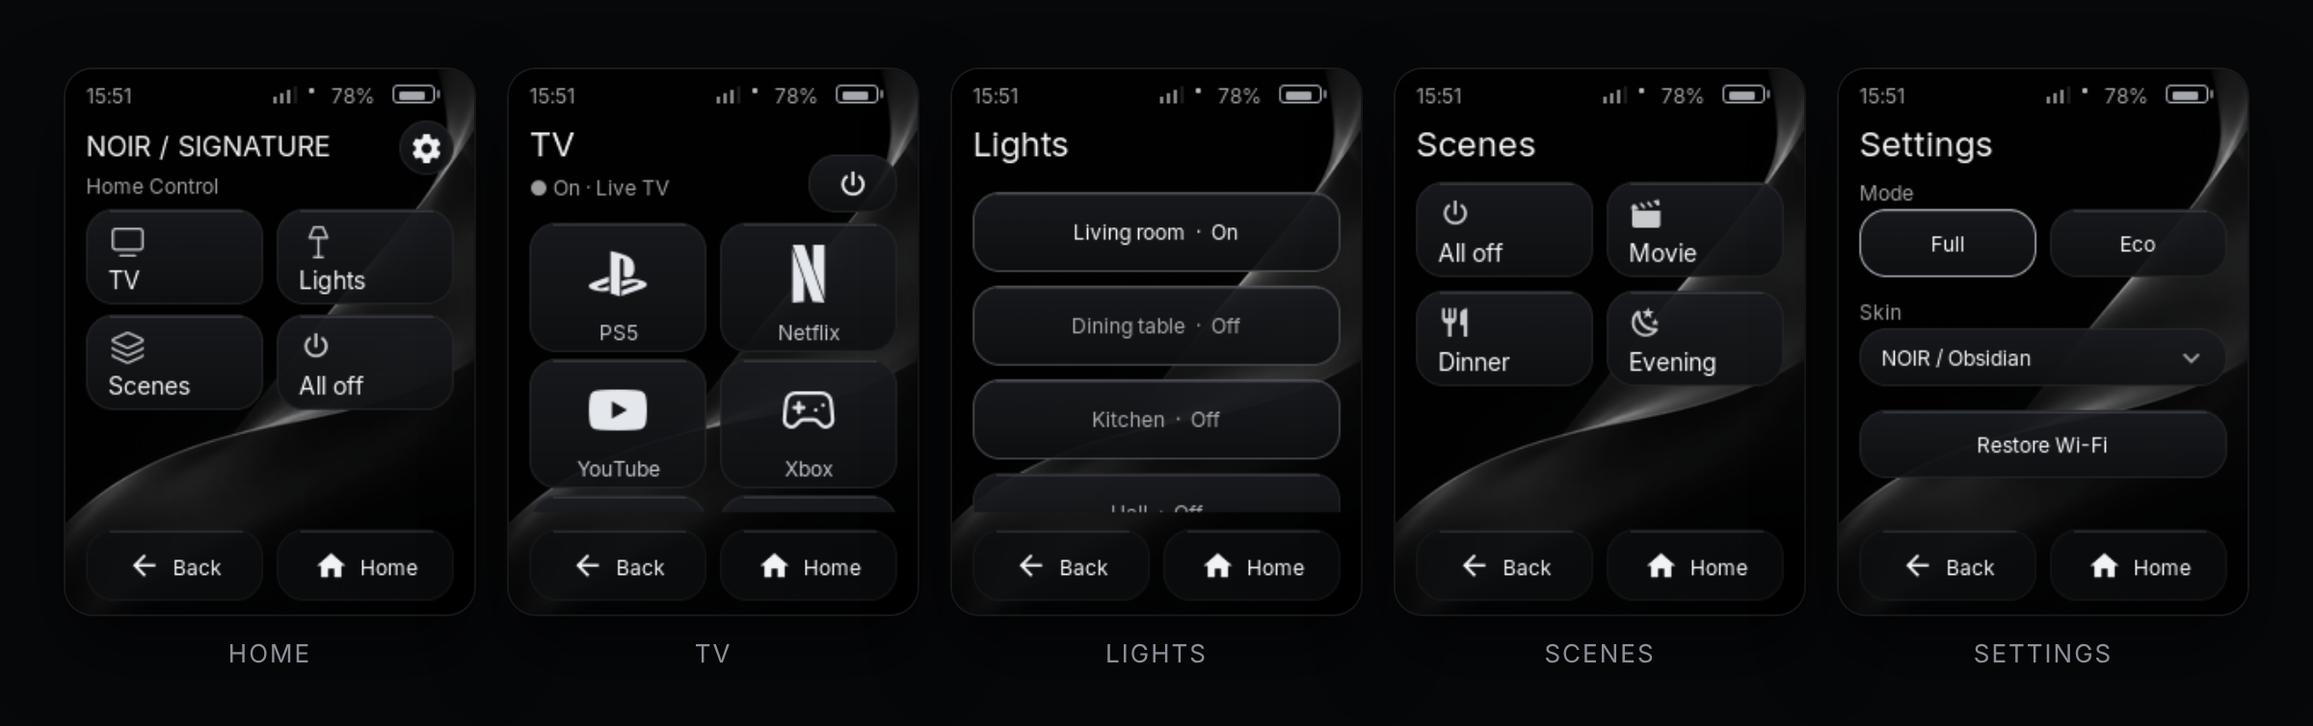
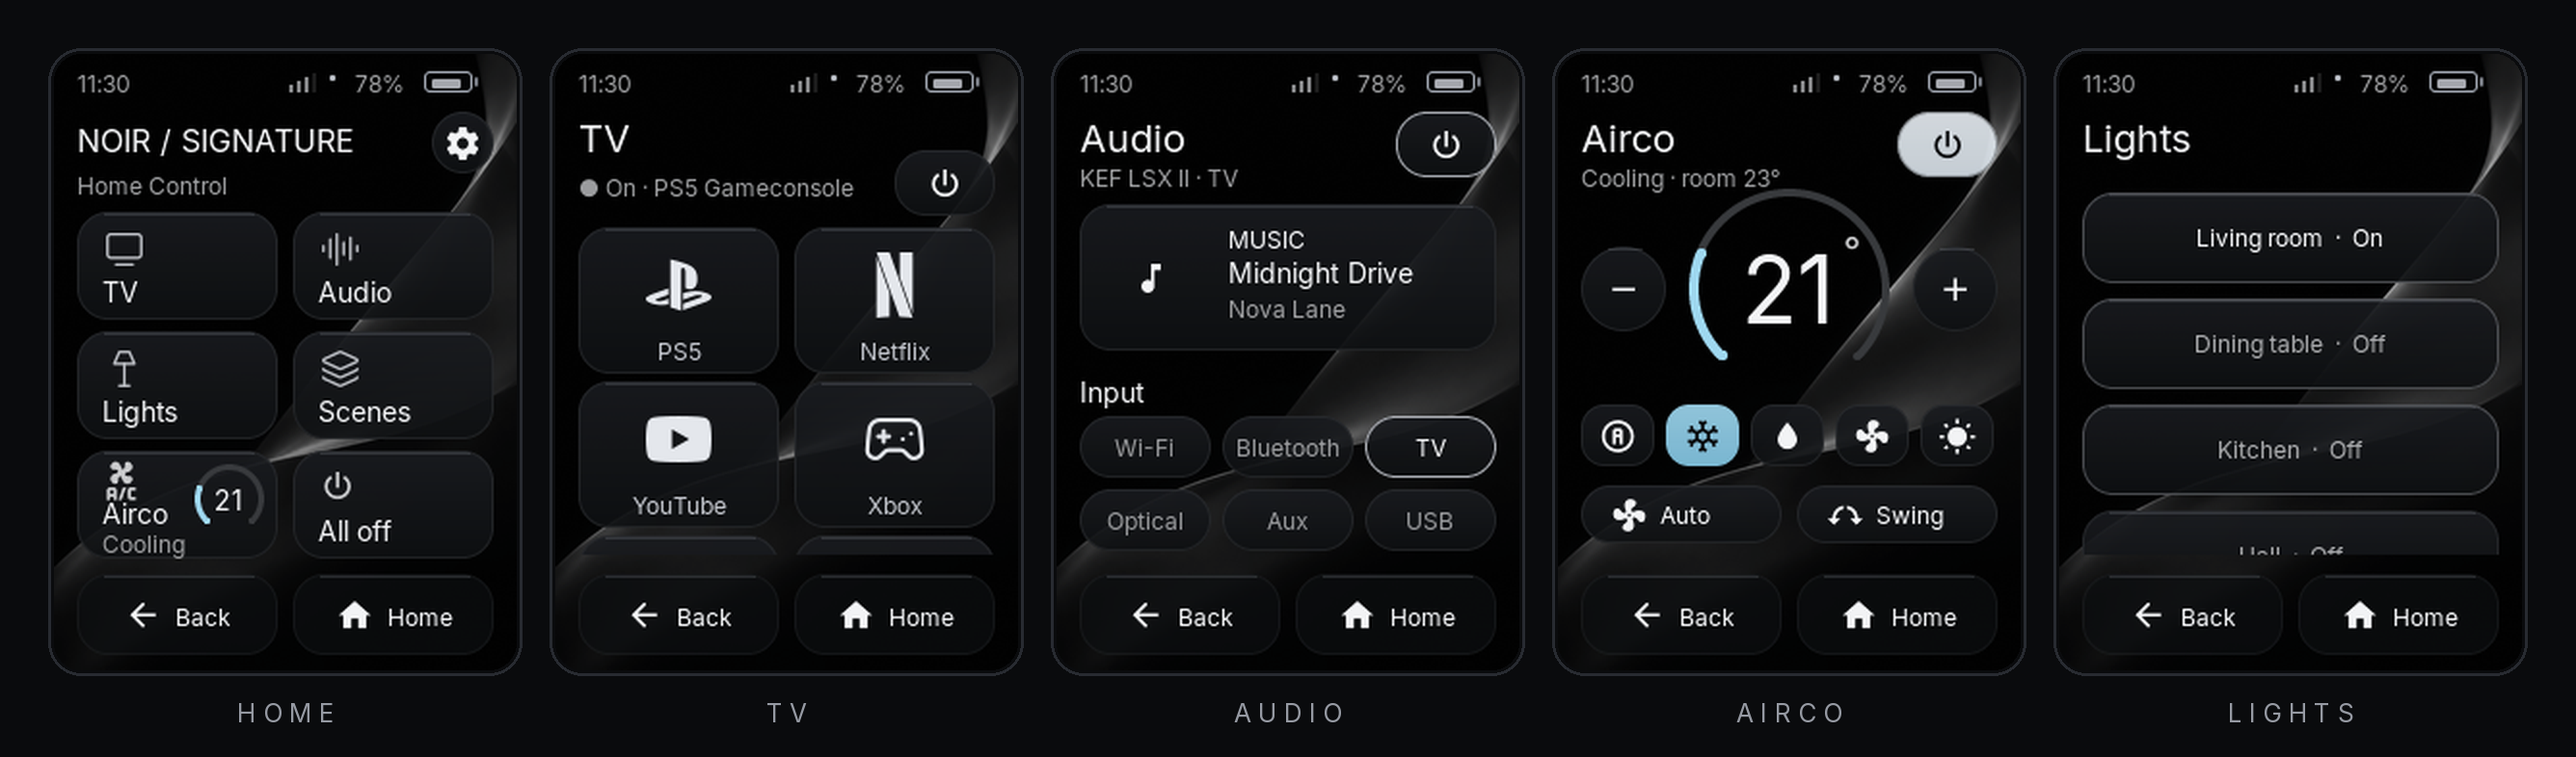
README, roadmap and simulator docs match 0.7.2; new screens image from the simulator
Claude-Session: https://claude.ai/code/session_01LpBzGr38TYbhESUH9aTSqR

diff --git a/firmware/noir-ui.h b/firmware/noir-ui.h
@@ -1207,7 +1207,7 @@ namespace audio {
 static const int BRONNEN = 6;   // at most 6 source buttons on the Audio screen
 // Sources of the speaker: names on the buttons + source values of its media_player (NOIR Builder > Audio).
 // Default: the KEF LSX II (simulator).
-inline std::vector<std::string> &bron_naam() { static std::vector<std::string> v{"Wi-Fi", "Bluetooth", "TV", "Optisch", "Aux", "USB"}; return v; }
+inline std::vector<std::string> &bron_naam() { static std::vector<std::string> v{"Wi-Fi", "Bluetooth", "TV", "Optical", "Aux", "USB"}; return v; }
 inline std::vector<std::string> &bron_id() { static std::vector<std::string> v{"wifi", "bluetooth", "tv", "optical", "analog", "usb"}; return v; }
 inline int bronnen() { return std::min<int>(BRONNEN, std::min(bron_naam().size(), bron_id().size())); }
 inline std::string &speaker_naam() { static std::string n{"KEF LSX II"}; return n; }

diff --git a/docs/roadmap.md b/docs/roadmap.md
@@ -6,18 +6,22 @@ What comes next, roughly in this order. Every item is a module or data, so the f
 1. **Update locally via Home Assistant** – Home Assistant fetches the firmware once and serves it on your own network, so a remote needs no internet (VLANs). Also: install your own `.bin` from NOIR Builder.
 2. **More remotes** – every remote its own name (`noir-remote-a1b2c3`), all linked by themselves. Per remote: the same screens as another one, or its own. *Update all* in one go.
 
+## Wider than the remote
+3. **One codebase for more devices** – boards with capabilities (screen size, touch, keys, IR, battery); a layout that follows the screen size; the Waveshare ESP32-P4-NANO 10.1" as wall panel; the same screens as a panel in Home Assistant (phone).
+
 ## Languages
-3. **Italiano** and more language packs – see [languages.md](languages.md). (Deutsch, Français and Español are in since 0.7.)
+4. **Italiano** and more language packs – see [languages.md](languages.md). (Deutsch, Français and Español are in since 0.7.)
 
 ## Next
-- **Heating (Toon, Nest, tado …)** – the Airco card adapts to a thermostat: orange dial, 0.5° steps, room temperature, presets (Comfort / Home / Sleep / Away) instead of airco modes, burner on/off when the thermostat reports it. Waits for a real thermostat entity to test with.
-- **Smart heating: airco or gas, whichever is cheaper** – an airco is a heat pump (1 kWh power gives 3–4 kWh heat). NOIR Remote gets a sensor *Cheapest heat* (airco / gas, with the price per kWh of heat for both) from your electricity price (dynamic: Tibber, Frank, ENTSO-e …), gas price, the outdoor temperature and a COP curve you can tune; a switch *Smart heating* lets Home Assistant heat with the cheaper one (airco on heat and the thermostat lower, or the other way round). The climate card shows it: *Cheaper now: airco · 9 ct vs gas 15 ct*. **With solar panels:** during a surplus the airco's power costs only the missed feed-in price (often near zero midday), so the airco wins; later also *pre-heat on sun* (a degree warmer in the afternoon, less gas in the evening). Matters more once net metering (saldering) ends in 2027. Extra inputs: grid export or solar production (P1 meter / inverter) and the feed-in price. Price source tested first: Zonneplan (official Home Assistant integration). Needs the thermostat and the aircos as climate entities (ESP32 modules), to test with real numbers.
-5. **Activities** – one tile runs several steps (TV on, source, speaker, lights, airco).
-6. **Status on Home** – Audio shows what is playing, Lights how many lamps are on (the Airco tile already shows temperature and mode).
-7. **Skins** – own colours and wallpaper, own logos for sources without one.
-8. **Colour keys as shortcuts** – choose in NOIR Builder what red, green, yellow and blue do.
-9. **Notifications** – Home Assistant shows a short message on the remote (doorbell, washing machine).
-10. **Netflix module.**
-11. **Clean-up** – English names in `noir-ui.h` (the old Aggro600 parts are gone since 0.7.2).
+5. **Heating (Toon, Nest, tado …)** – the Airco card adapts to a thermostat: orange dial, 0.5° steps, room temperature, presets (Comfort / Home / Sleep / Away) instead of airco modes, burner on/off when the thermostat reports it. Waits for a real thermostat entity to test with.
+6. **Smart heating: airco or gas, whichever is cheaper** – an airco is a heat pump (1 kWh power gives 3–4 kWh heat). NOIR Remote gets a sensor *Cheapest heat* (airco / gas, with the price per kWh of heat for both) from your electricity price (dynamic: Tibber, Frank, ENTSO-e …), gas price, the outdoor temperature and a COP curve you can tune; a switch *Smart heating* lets Home Assistant heat with the cheaper one (airco on heat and the thermostat lower, or the other way round). The climate card shows it: *Cheaper now: airco · 9 ct vs gas 15 ct*. **With solar panels:** during a surplus the airco's power costs only the missed feed-in price (often near zero midday), so the airco wins; later also *pre-heat on sun* (a degree warmer in the afternoon, less gas in the evening). Matters more once net metering (saldering) ends in 2027. Extra inputs: grid export or solar production (P1 meter / inverter) and the feed-in price. Price source tested first: Zonneplan (official Home Assistant integration). Needs the thermostat and the aircos as climate entities (ESP32 modules), to test with real numbers.
+7. **Activities** – one tile runs several steps (TV on, source, speaker, lights, airco).
+8. **Status on Home** – Audio shows what is playing, Lights how many lamps are on (the Airco tile already shows temperature and mode).
+9. **Skins** – own colours and wallpaper, own logos for sources without one.
+10. **Colour keys as shortcuts** – choose in NOIR Builder what red, green, yellow and blue do.
+11. **Notifications** – Home Assistant shows a short message on the remote (doorbell, washing machine).
+12. **Clean-up** – English names in `noir-ui.h` (the old Aggro600 parts are gone since 0.7.2).
+
+Done: browser installer, updates over Wi-Fi with a Stable and a Test channel (0.7), language packs de/fr/es (0.7), Audio (0.4), Airco (0.5), D-pad (0.6).
 
 Ideas and requests: open an issue on GitHub.

diff --git a/README.md b/README.md
@@ -20,7 +20,7 @@
 |---|---|---|
 | One screen per task. Text only where it helps. Nederlands, English, Deutsch, Français or Español. | Build your screens in the **NOIR Builder** – what you see is what the remote shows. | Any TV, speaker, light or airco in Home Assistant. One firmware for everyone, free, MIT licensed, every feature a small module. |
 
-<p align="center"><img src="docs/screens.png" width="100%" alt="Home, TV, Lights, Scenes, Settings"></p>
+<p align="center"><img src="docs/screens.png" width="100%" alt="Home, TV, Audio, Airco, Lights"></p>
 
 ## What it does (version 0.7)
 
@@ -33,9 +33,9 @@
 | **Audio** | Your speaker: on/off, its sources, volume, subwoofer and what is playing. Play/pause and next with the remote's keys. |
 | **Airco** | One or more aircos (rooms): a dial around the temperature, modes, fan and swing. Any airco in Home Assistant, or the remote's own infrared (Mitsubishi Heavy). |
 | **D-pad** | The screen you see decides: on the TV screen the arrows go to the TV, on the Airco screen they set temperature and mode, everywhere else a focus ring moves over the buttons and sliders – OK presses, hold OK = long press, left/right moves a slider. |
-| **Modes** | **Full** – always ready. **Eco** – longer battery. |
+| **Settings** | On the remote: **Full** (always ready) or **Eco** (longer battery), four skins, Wi-Fi, a button test. |
 
-What comes next – a test channel for updates, local updates, more remotes, German/French/Spanish/Italian – is in the [roadmap](docs/roadmap.md). Which tiles your home screen shows is up to you: add and remove them in the NOIR Builder.
+What comes next – updating locally through Home Assistant, more remotes, Italian, heating – is in the [roadmap](docs/roadmap.md). Which tiles your home screen shows is up to you: add and remove them in the NOIR Builder.
 
 **Try it first:** the **[demo](https://ronsone.github.io/Noir_Remote/demo.html)** shows the remote's screens in your browser, with sample data – tap the tiles or use the D-pad under the screen (or the arrow keys and Enter on your keyboard).
 
@@ -124,7 +124,7 @@ In Home Assistant, delete the old *noir-remote* under ESPHome first; the new one
 
 With Python 3: `pip install esphome`, then in the folder `firmware`: `esphome run noir-remote.yaml`.
 GitHub checks that the firmware builds on every change in `firmware/` (`.github/workflows/firmware.yml`). **Run workflow** publishes the newest build to the **test** channel. The **stable** channel only changes when you **release**:
-raise `substitutions: version` in `noir-remote.yaml`, then *GitHub → Releases → Draft a new release*, tag `v` + that version (e.g. `v0.3.1`) → **Publish**.
+raise `substitutions: version` in `noir-remote.yaml`, then *GitHub → Releases → Draft a new release*, tag `v` + that version (e.g. `v0.7.2`) → **Publish**.
 Only then do the installer and the remotes on Stable get it.
 </details>
 
@@ -146,7 +146,8 @@ custom_components/noir_remote/
   languages/          language packs (de, fr, es) – texts of NOIR Builder and the remote
   logos.json          which source name gets which logo
 site/                 the installer page and the demo (GitHub Pages)
-simulator/            all screens on your PC (SDL2 + LVGL)
+simulator/            all screens on your PC (SDL2 + LVGL), same screen code as the firmware
+tools/                check_icons.py, check_languages.py, make_sim_font.py, make_logos.py, make_brand.py
 ```
 
 **New feature = new module.** Copy `firmware/modules/scenes.h`, give it a name, handle its actions/keys, add it in `noir-app.h`.

diff --git a/simulator/README.md b/simulator/README.md
@@ -53,30 +53,24 @@ cmake -S . -B build -DCMAKE_BUILD_TYPE=Release && cmake --build build -j
 | Arrow keys / Enter | D-pad / OK |
 | Backspace or Esc | Back |
 | H | Home |
-| Space / S / , / . | Play-pause / Stop / Rewind / Fast-forward (on the Netflix screens) |
-| + / - / M | Volume up / down / mute (KEF) |
+| Space | Play/pause (Audio) |
+| + / - / M | Volume up / down / mute (the speaker) |
 | P | Screenshot (`noir-<n>.bmp`) |
 | Q | Quit |
 
 `./noir-simulator --demo` walks through all screens, saves a screenshot of each (`demo-*.bmp`) and exits.
 
-## How NOIR sits on top of the Aggro600 firmware
+## How it fits together
 
-- NOIR is a set of full-screen LVGL layers on `page_home` (one per screen); the Aggro600 pages stay untouched below.
-  Objects carry `LV_OBJ_FLAG_USER_4`, so the Aggro600 skins leave them alone.
-- Tiles, lights and scenes come from configurator menu pages (`noir`, `noir_licht`, `noir_scenes`), so they change
-  without recompiling. Taps call `noir::st().actie(code)`; in the firmware that is `tasten::noir_actie` in
-  `esphomeremote-keys.h`, here a simplified copy in `src/main.cpp`.
-- Physical keys go through `noir::kef::taste` (volume → KEF) and `noir::tv::taste` (D-pad/OK → `webostv.button`,
-  airco, button test, Netflix media keys) before the key configurator.
-- Netflix: the integration (`netflix.py`) combines the official Netflix Top 10 (Tudum), TMDB (posters, text, Popular)
-  and Wikidata (Netflix title number, P1874); the remote fetches a plain text list and 64 × 96 RGB565 posters from
-  Home Assistant, and *Play in Netflix* calls `esphomeremote.tv_app`, which launches the title on the LG.
+- NOIR is a set of full-screen LVGL layers on `page_home`, one per screen; the status bar moves to the visible one.
+- `firmware/noir-ui.h` only builds and shows the screens. In the firmware, modules (`firmware/modules/*.h`) fill in the
+  data from Home Assistant and handle taps and keys; here `src/main.cpp` is a small stand-in with sample data.
+- Taps call `noir::st().actie(code)` – in the firmware `noirapp::action`, here `action()` in `src/main.cpp`.
+- The icon font `fonts/mdi20.c` is made from the firmware's glyph list: `python3 tools/make_sim_font.py`.
 
 ## Credits and licences
 
 - [LVGL](https://lvgl.io) (MIT, downloaded at build time), [ArduinoJson](https://arduinojson.org) (MIT, `inc/`).
 - Inter font (SIL OFL 1.1, `fonts/Inter-OFL.txt`), Material Design Icons subset (Pictogrammers, Apache 2.0),
   Lucide icons (ISC, `assets/LUCIDE-LICENSE.txt`).
-- The posters are generated placeholders; the real ones come from TMDB in the firmware. App logos belong to their
-  owners and are only used to show the TV screen.
+- App logos belong to their owners and are only used to show the TV screen.
